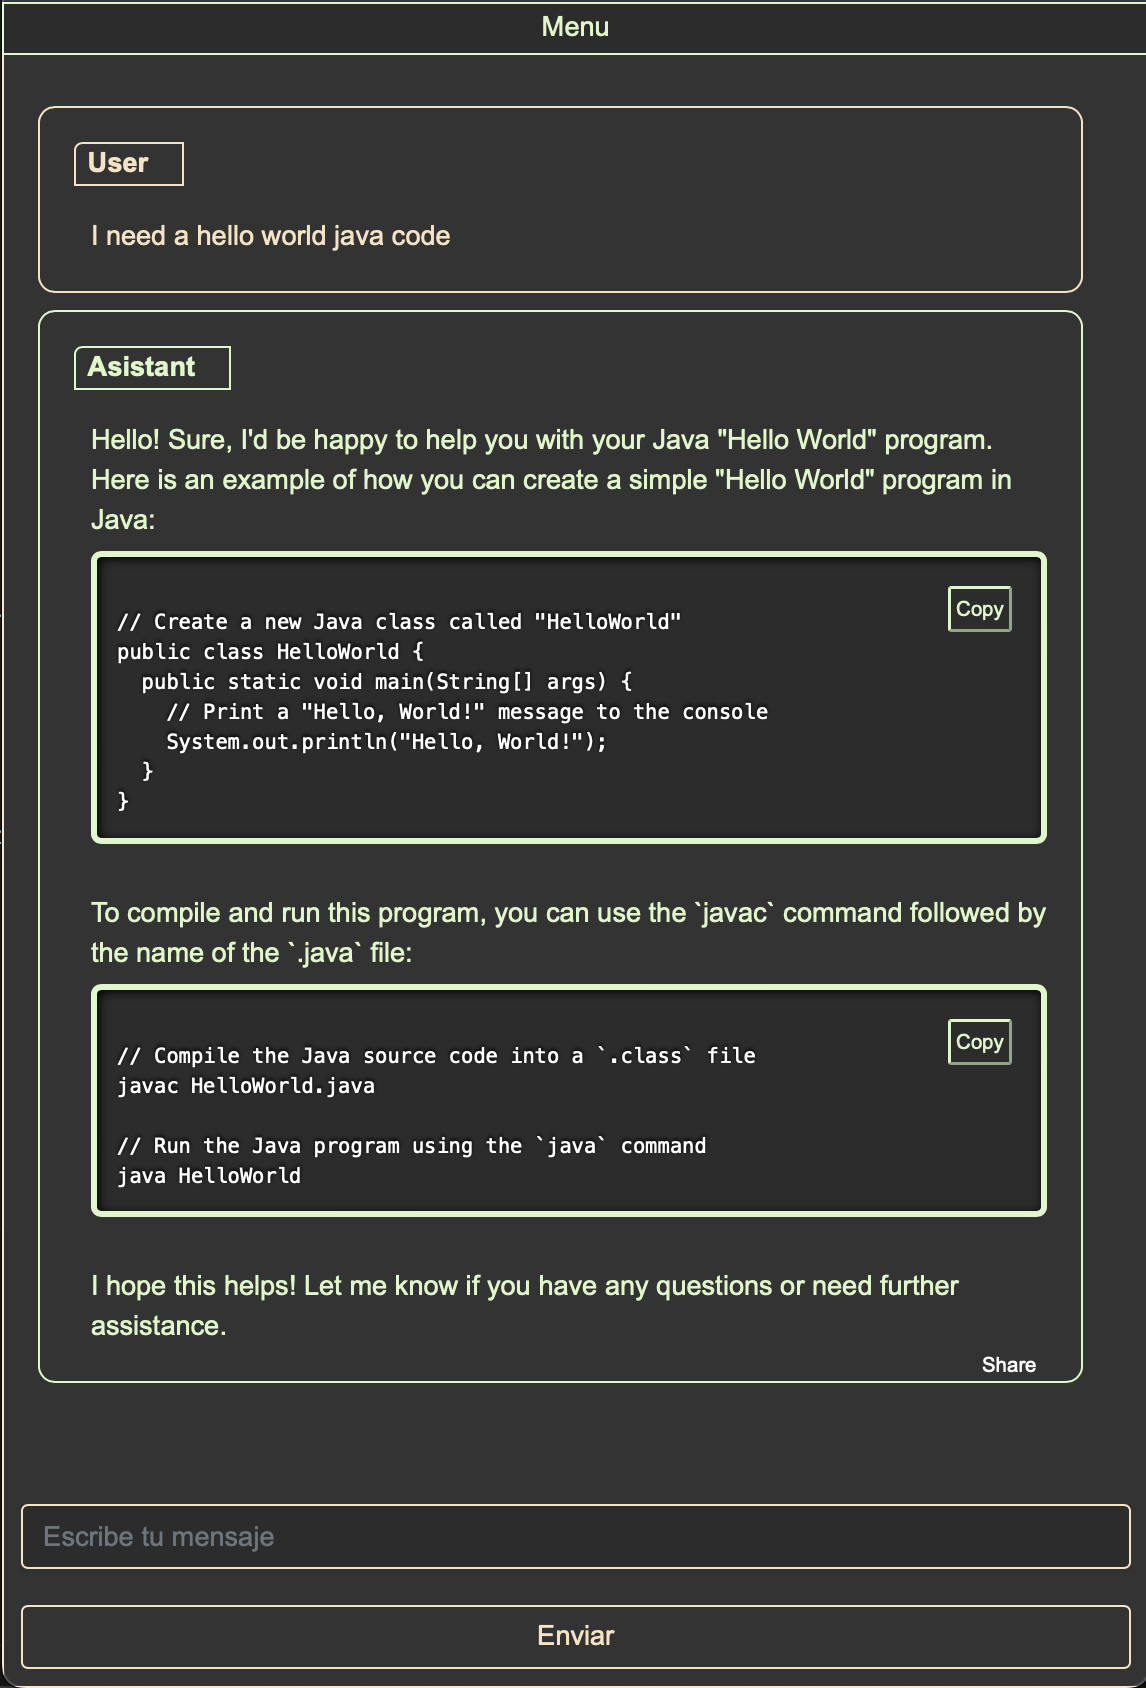
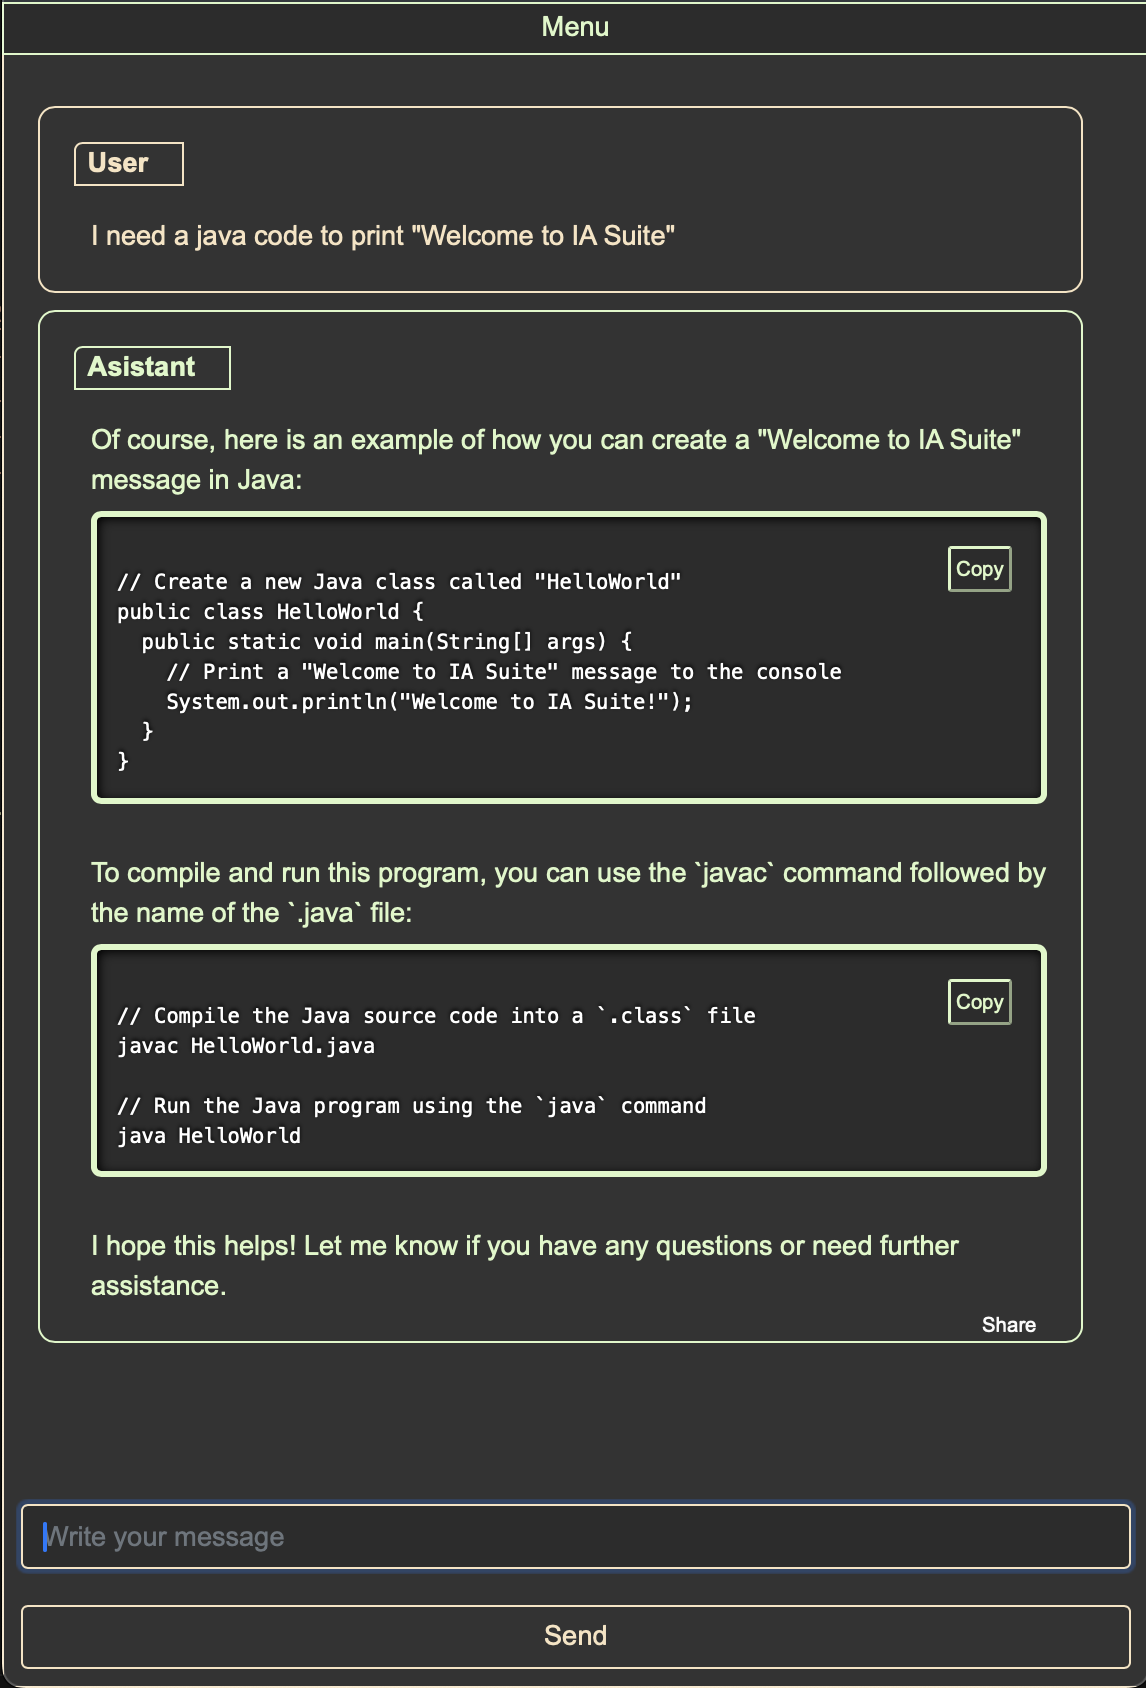
.

diff --git a/templates/index.html b/templates/index.html
@@ -66,9 +66,9 @@ Si no sabe la respuesta a una pregunta, no comparta información falsa. Mantenga
 <div id="footer" >
     <button  id="stop-button" onclick="chat.stopResponse()" height="20px">Stop</button>
     <div class="form-group">
-        <input type="text" class="form-control" id="user-input" placeholder="Escribe tu mensaje">
+        <input type="text" class="form-control" id="user-input" placeholder="Write your message">
     </div>
-    <button class="btn btn-primary" id="send-button" onclick="chat.sendMessage()">Enviar</button>
+    <button class="btn btn-primary" id="send-button" onclick="chat.sendMessage()">Send</button>
 </div>
 </body>
 </html>
